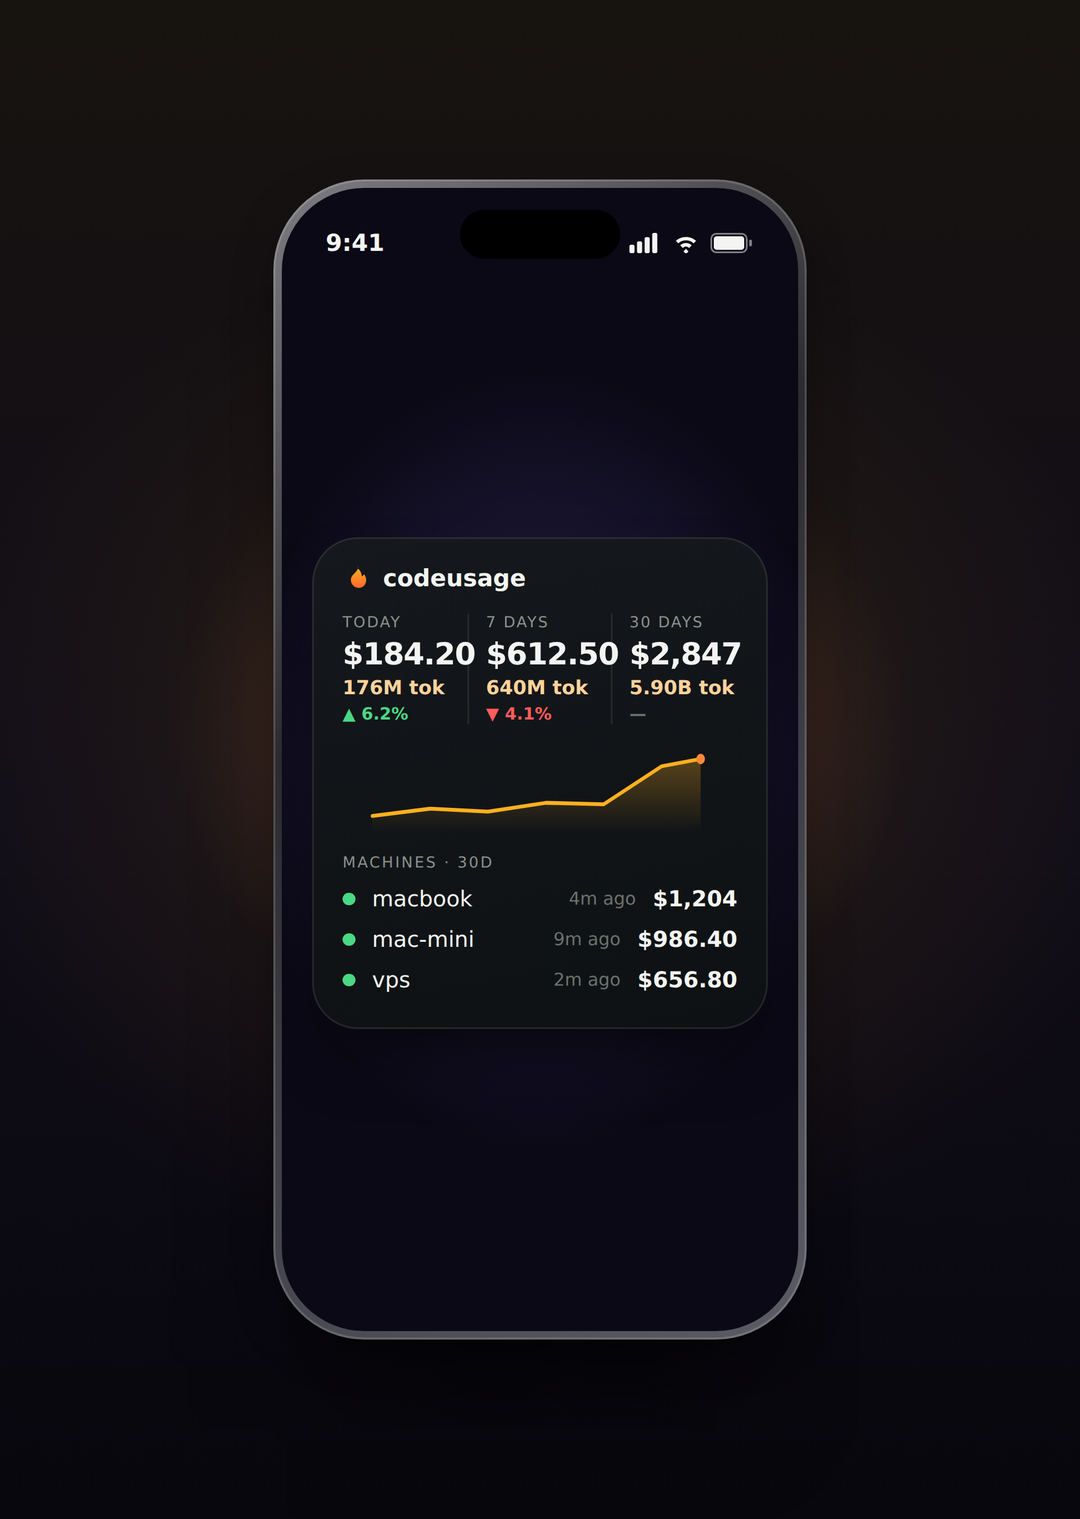
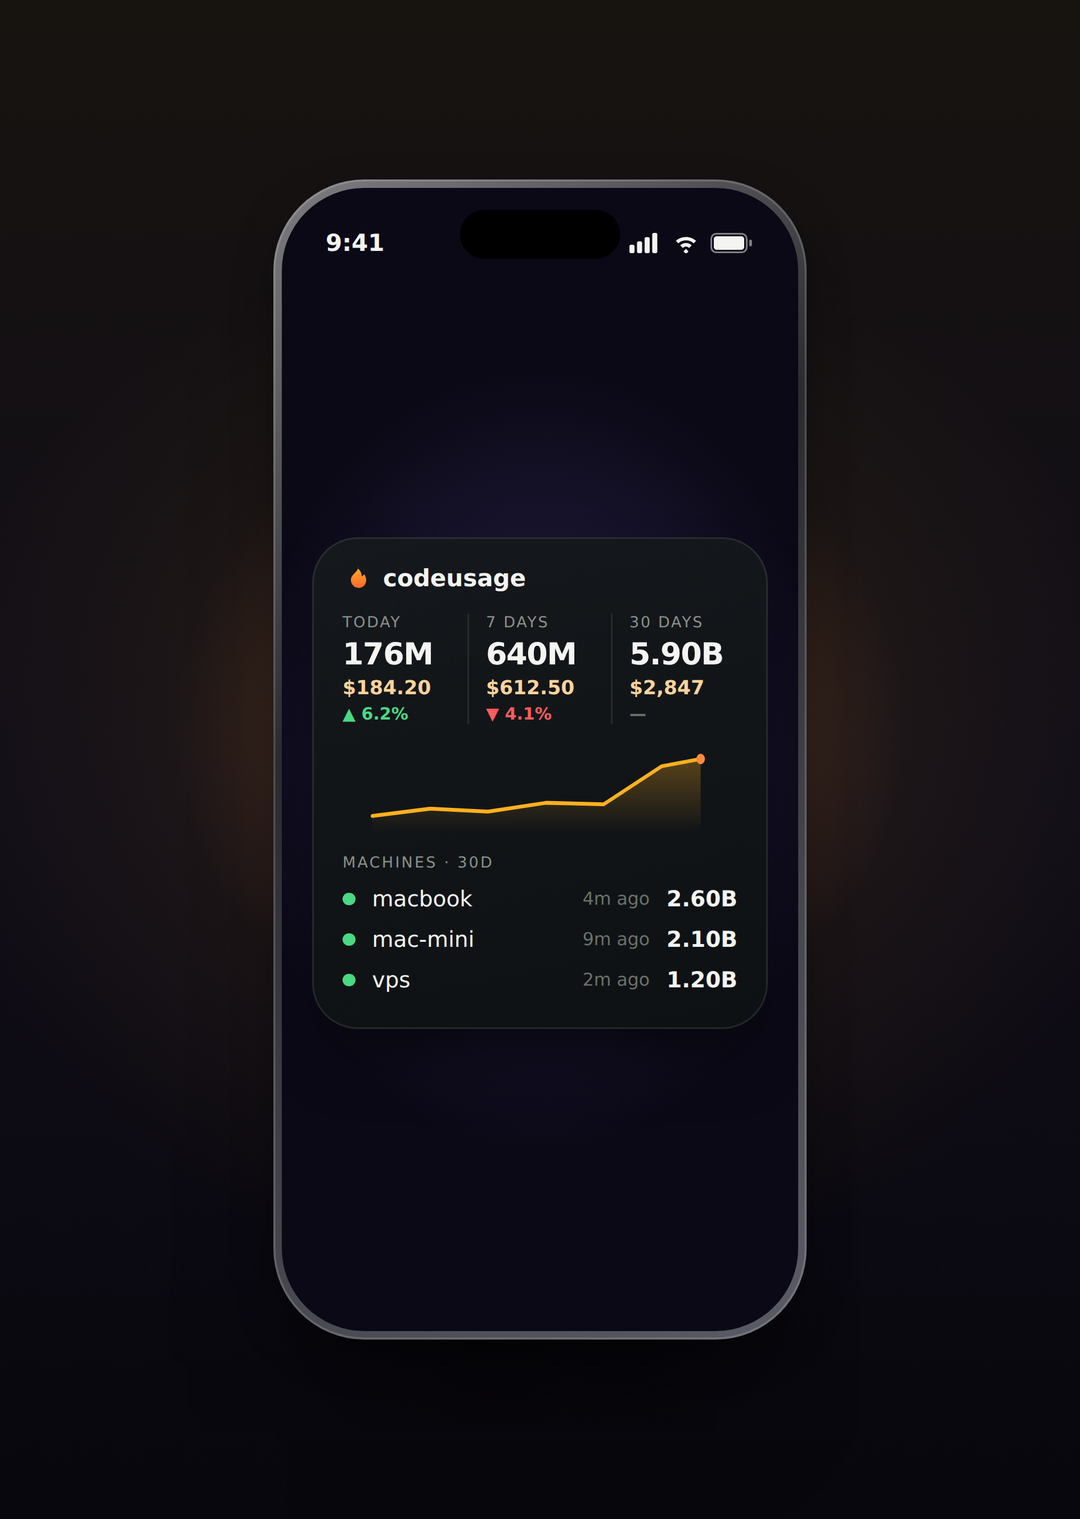
widget: token-first display (tokens = headline, $ secondary)
Per-range big number is now total tokens; cost drops to the small line.
Machine rows and the sparkline switch to tokens too. Updated hero image.

Changed region(s): [[0.3056, 0.4022, 0.6722, 0.4641], [0.5194, 0.5879, 0.7028, 0.6498]]

diff --git a/widget/codeusage.js b/widget/codeusage.js
@@ -56,8 +56,8 @@ async function build(){
     w.addSpacer(4); const m=w.addText("can't reach server — check token"); m.font=Font.systemFont(12); m.textColor=DIM; return w;
   }
   const R=data.ranges||{};
-  const machines=(data.machines||[]).map(m=>({name:m.machine,on:!m.stale,cost:(m["30d"]||{}).cost_usd||0,seen:relTime(m.updated_at)})).sort((a,b)=>b.cost-a.cost);
-  const spark=(data.spark||[]).map(p=>Number(p.cost_usd)||0);
+  const machines=(data.machines||[]).map(m=>({name:m.machine,on:!m.stale,toks:(m["30d"]||{}).tokens||0,seen:relTime(m.updated_at)})).sort((a,b)=>b.toks-a.toks);
+  const spark=(data.spark||[]).map(p=>Number(p.tokens)||0);
 
   const head=w.addStack(); head.centerAlignContent();
   try{ const s=SFSymbol.named("flame.fill"); s.applyFont(Font.systemFont(15)); const im=head.addImage(s.image); im.imageSize=new Size(16,16); im.tintColor=AMBER2; head.addSpacer(7);}catch(e){}
@@ -71,9 +71,9 @@ async function build(){
     const c=row.addStack(); c.layoutVertically();
     const lab=c.addText(rr[1]); lab.font=Font.mediumSystemFont(9.5); lab.textColor=DIM;
     c.addSpacer(3);
-    const val=c.addText(usd(r.cost_usd)); val.font=Font.boldSystemFont(19); val.textColor=INK;
+    const val=c.addText(tok(r.tokens)); val.font=Font.boldSystemFont(19); val.textColor=INK;
     c.addSpacer(3);
-    const tk=c.addText(tok(r.tokens)+" tok"); tk.font=Font.mediumSystemFont(10); tk.textColor=SOFT;
+    const tk=c.addText(usd(r.cost_usd)); tk.font=Font.mediumSystemFont(10); tk.textColor=SOFT;
     c.addSpacer(2);
     if(r.change_pct!==null&&r.change_pct!==undefined){
       const up=r.change_pct>=0;
@@ -93,13 +93,13 @@ async function build(){
     const d=rw.addText("●"); d.font=Font.systemFont(9); d.textColor=m.on?UP:DN; rw.addSpacer(9);
     const n=rw.addText(m.name); n.font=Font.systemFont(13.5); n.textColor=m.on?INK:DN; rw.addSpacer();
     const sn=rw.addText(m.seen); sn.font=Font.systemFont(10.5); sn.textColor=m.on?DIM2:DN; rw.addSpacer(8);
-    const v=rw.addText(usd(m.cost)); v.font=Font.semiboldSystemFont(13.5); v.textColor=m.on?INK:DIM2;
+    const v=rw.addText(tok(m.toks)); v.font=Font.semiboldSystemFont(13.5); v.textColor=m.on?INK:DIM2;
     w.addSpacer(9);
   }
   if(hid.length){
-    const rest=hid.reduce((s,m)=>s+m.cost,0), inact=hid.filter(m=>!m.on).length;
+    const rest=hid.reduce((s,m)=>s+m.toks,0), inact=hid.filter(m=>!m.on).length;
     const rw=w.addStack(); const l=rw.addText("+"+hid.length+" more"+(inact?" · "+inact+" inactive":"")); l.font=Font.systemFont(11.5); l.textColor=inact?DN:DIM; rw.addSpacer();
-    const v=rw.addText(usd(rest)); v.font=Font.systemFont(11.5); v.textColor=DIM;
+    const v=rw.addText(tok(rest)); v.font=Font.systemFont(11.5); v.textColor=DIM;
   }
   w.refreshAfterDate=new Date(Date.now()+1200*1000);
   return w;
